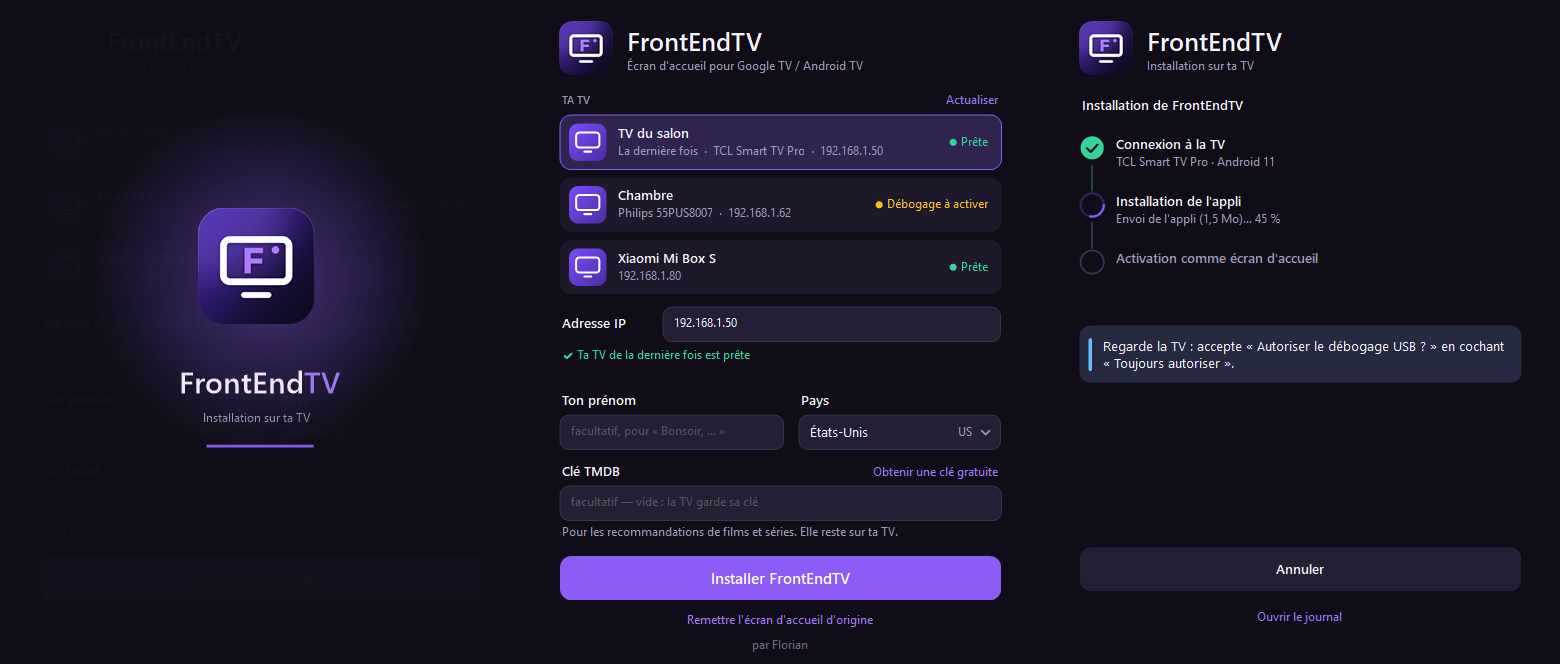
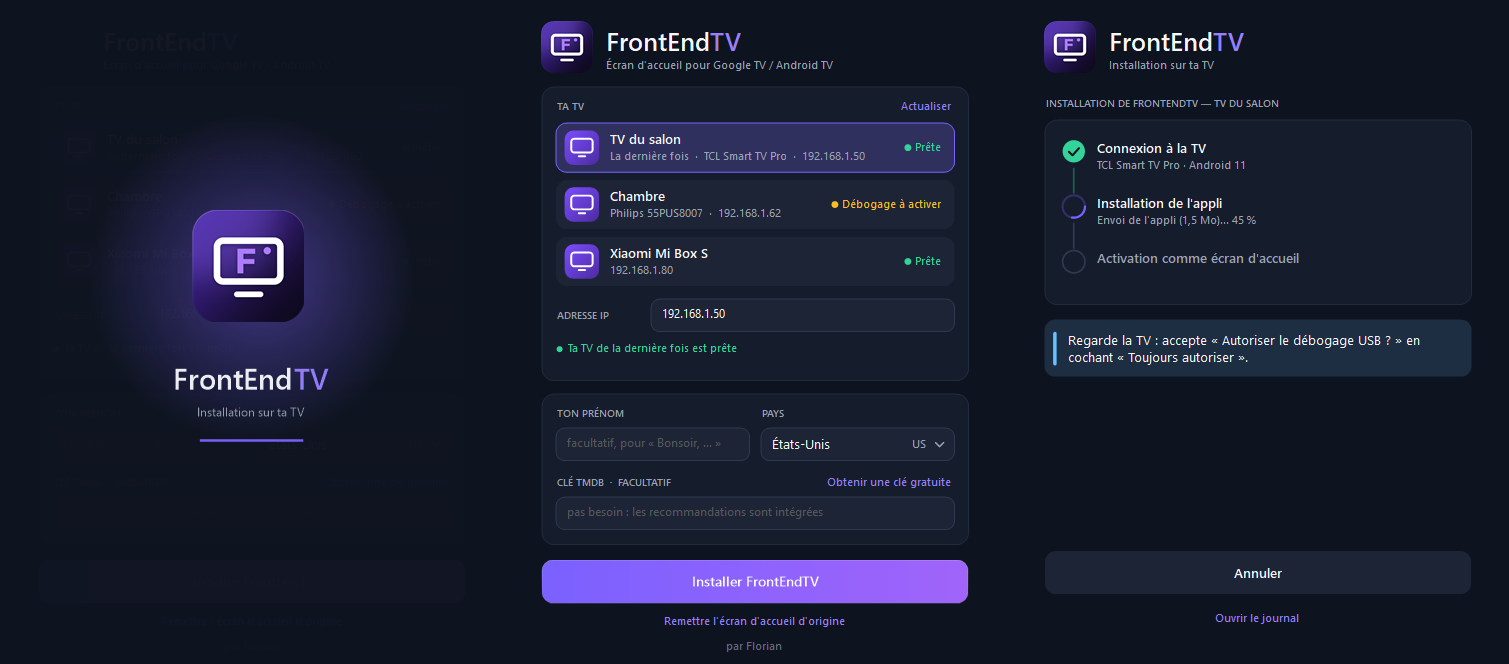
1.9.3 : bouton principal des questions en dégradé ; capture de l'installateur
Claude-Session: https://claude.ai/code/session_01XRt4TK72g5zuN69rmcjn1v

diff --git a/installer/Program.cs b/installer/Program.cs
@@ -1898,6 +1898,7 @@ sealed class Dialog : Form {
         int bw = (int) (136 * scale), bh = (int) (44 * scale), gap = (int) (12 * scale);
         Font buttons = new Font("Segoe UI Semibold", 14.5f * scale, GraphicsUnit.Pixel);
         yes = new RoundButton(yesText, Palette.Accent, Palette.AccentHover, Color.White, scale);
+        yes.Gradient = true;
         yes.Font = buttons;
         yes.Bounds = new Rectangle(w - pad - bw, bottom, bw, bh);
         yes.Click += (s, e) => Done(true);

diff --git a/.github/release-notes.md b/.github/release-notes.md
@@ -1,9 +1,6 @@
-## FrontEndTV 1.9.2 — nouveau thème de l'installateur
+## FrontEndTV 1.9.3
 
-- **Mêmes couleurs que les réglages de la TV** : bleu nuit, cartes plus claires avec un fin liseré, violet.
-- **En-tête** « FrontEnd**TV** » avec « TV » en violet, comme sur la TV.
-- **Deux cartes** : *Ta TV* (la liste, l'adresse, ce qui se passe) et *Réglages* (prénom, pays, clé TMDB facultative), avec des titres de section tous du même style.
-- **L'état** sous l'adresse avec une pastille de couleur (prête, à préparer, recherche).
-- **Boutons principaux** (Installer, Réessayer, Terminer) en dégradé violet ; les étapes de l'installation dans une carte.
+- **Installateur** : dans les questions (« Remettre l'écran d'accueil d'origine ? »…), le bouton principal a le même dégradé violet que les autres.
+- La page GitHub montre le nouvel installateur.
 
 **Installer** : télécharge `FrontEndTV-Installateur.exe` et double-clique dessus. La TV se met à jour depuis Réglages de FrontEndTV → TV et mises à jour → *Mise à jour*.
